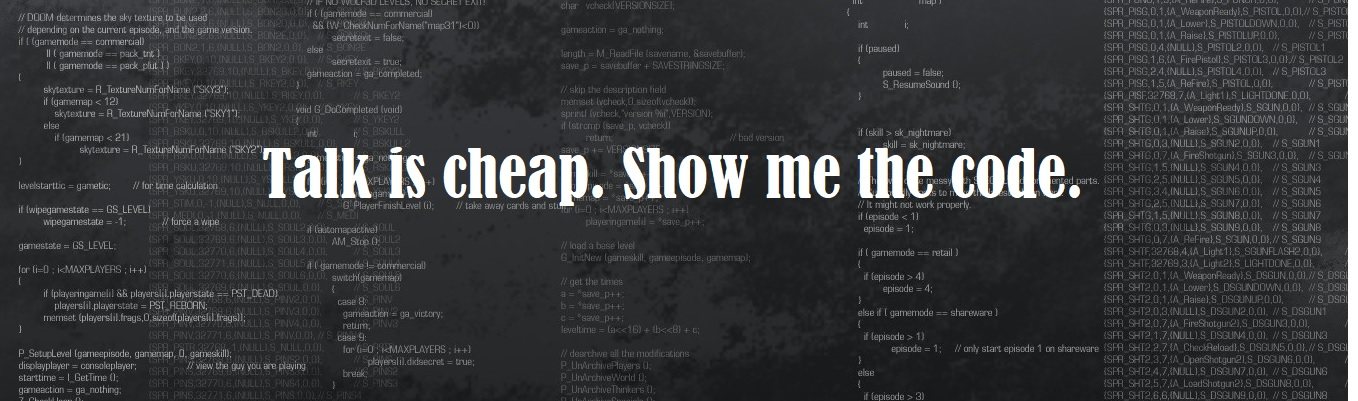
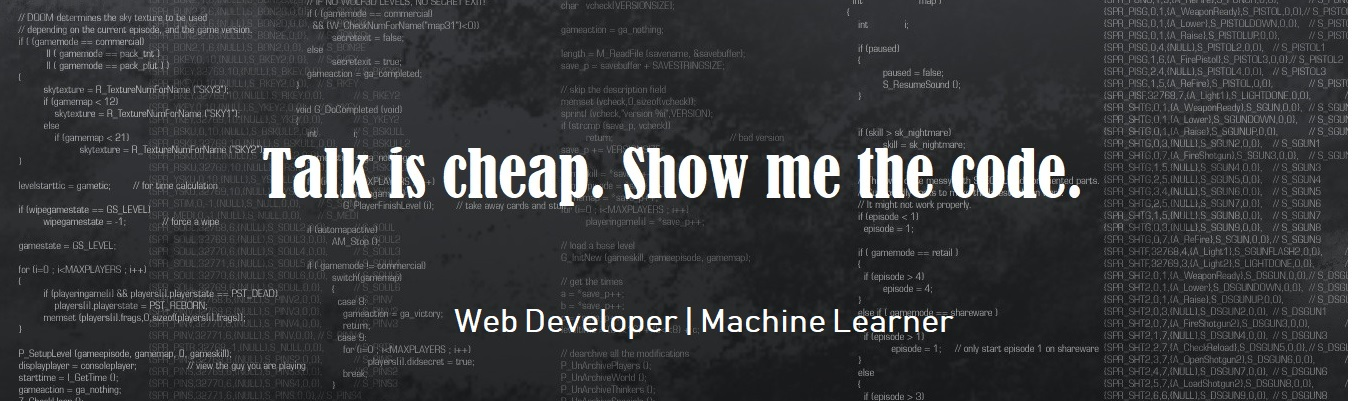
minor fixes

Changed region(s): [[0.3093, 0.7781, 0.7113, 0.8379]]

diff --git a/index.html b/index.html
@@ -48,9 +48,6 @@
       <img class="d-block w-100" src="img/bg2.jpg" alt="First slide">
 
     </div>
-    <div class="carousel-caption">
-    <h3>Web Developer | Machine Learner </h3>
-    </div>
 </div>
 
 
